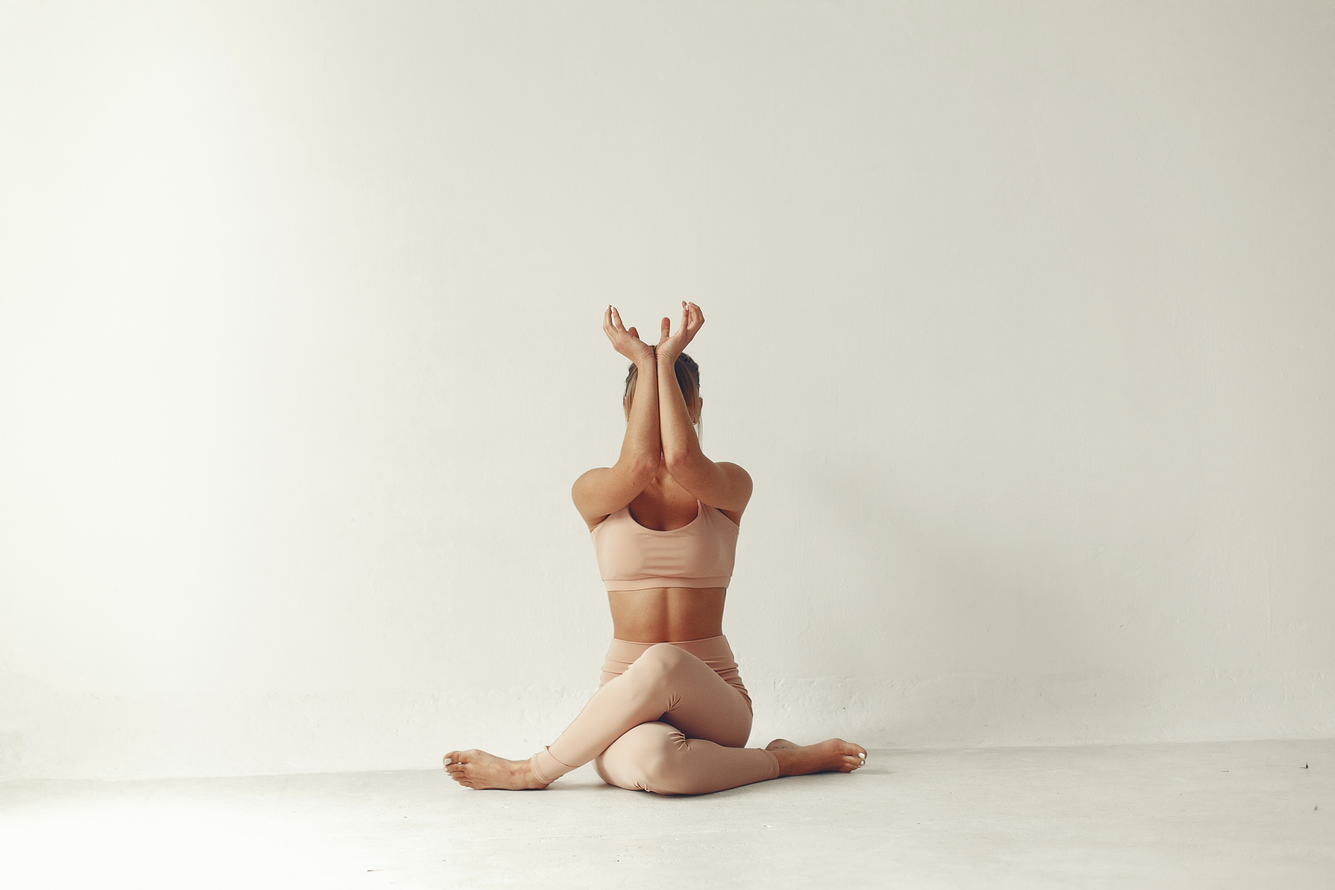
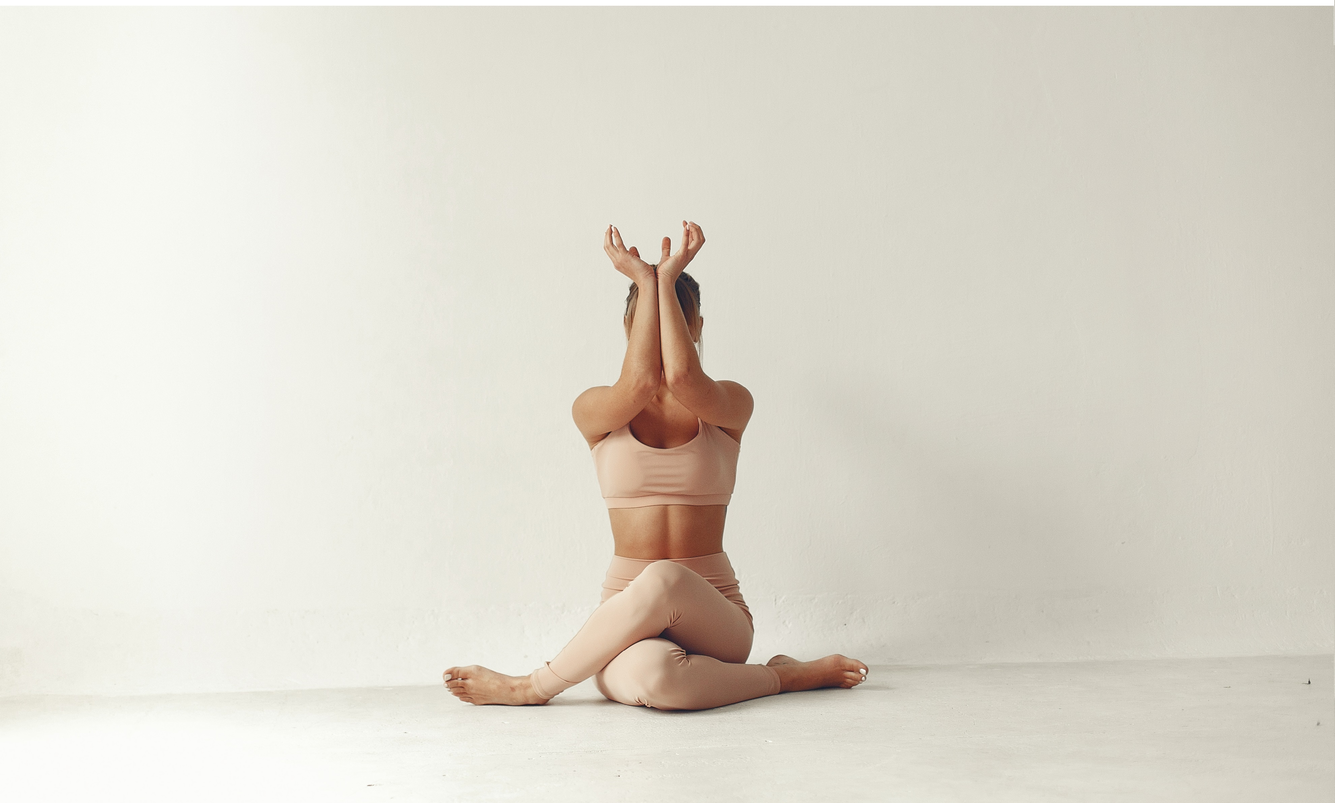
achtergrond

Changed region(s): [[0.3106, 0.2794, 0.6833, 0.9002], [0.1553, 0.0, 1.0, 0.031]]

diff --git a/home/style.css b/home/style.css
@@ -1,10 +1,16 @@
+body {
+    margin: 0;
+    padding: 0;
+}
 .jemadre {
     height: 100em;
 }
 
 .homeimg {
     width: 100%;
-    height: auto;
+    height: 100vh;
     position: absolute;
     top: 0;
+    object-fit: cover;
 }
+
